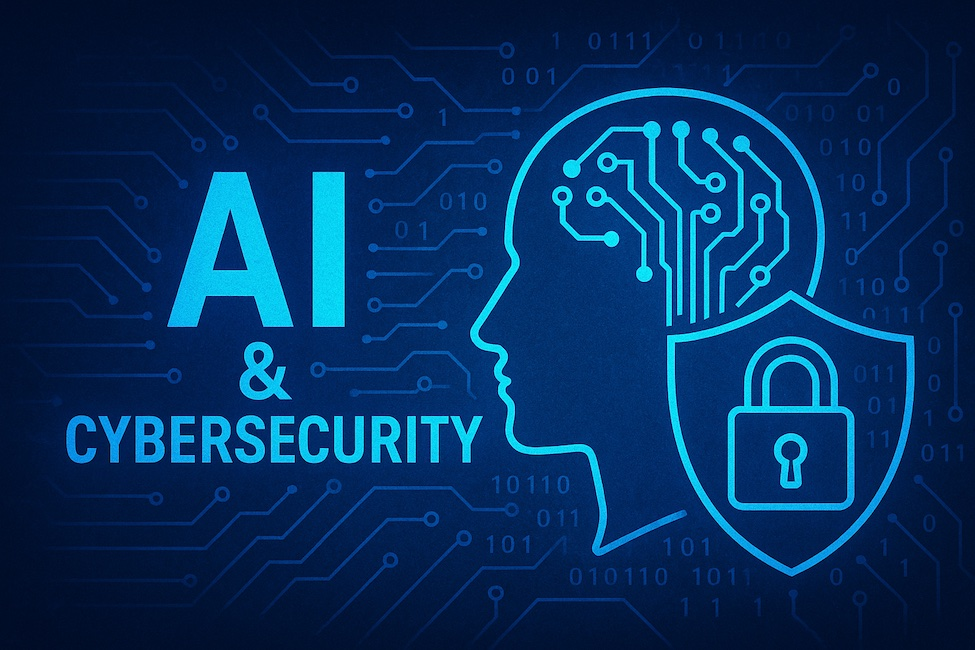
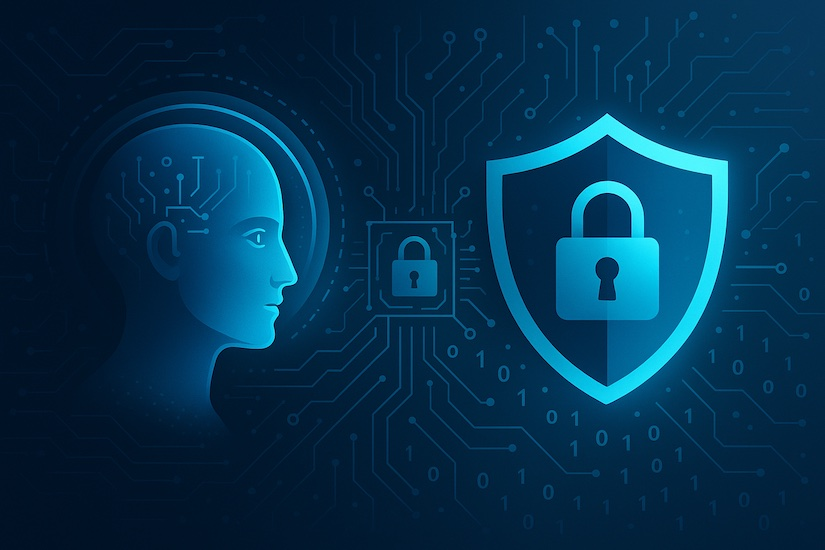
Updated images from sora

diff --git a/ai-and-cybersecurity.html b/ai-and-cybersecurity.html
@@ -80,7 +80,7 @@
 							<h1>The Vital Role of AI and Cybersecurity for Software Engineers</h1>
 						</header>
 
-						<span class="image main"><img src="images/ai-image-short.jpg" height="650" alt="" /></span>
+						<span class="image main"><img src="images/ai-image-short.jpg" height="600" alt="" /></span>
 						<p>In an era dominated by digital transformation, artificial intelligence (AI) and cybersecurity
 							have emerged as two critical pillars in the software engineering landscape. These domains
 							not only influence the development process but also dictate how secure and innovative
